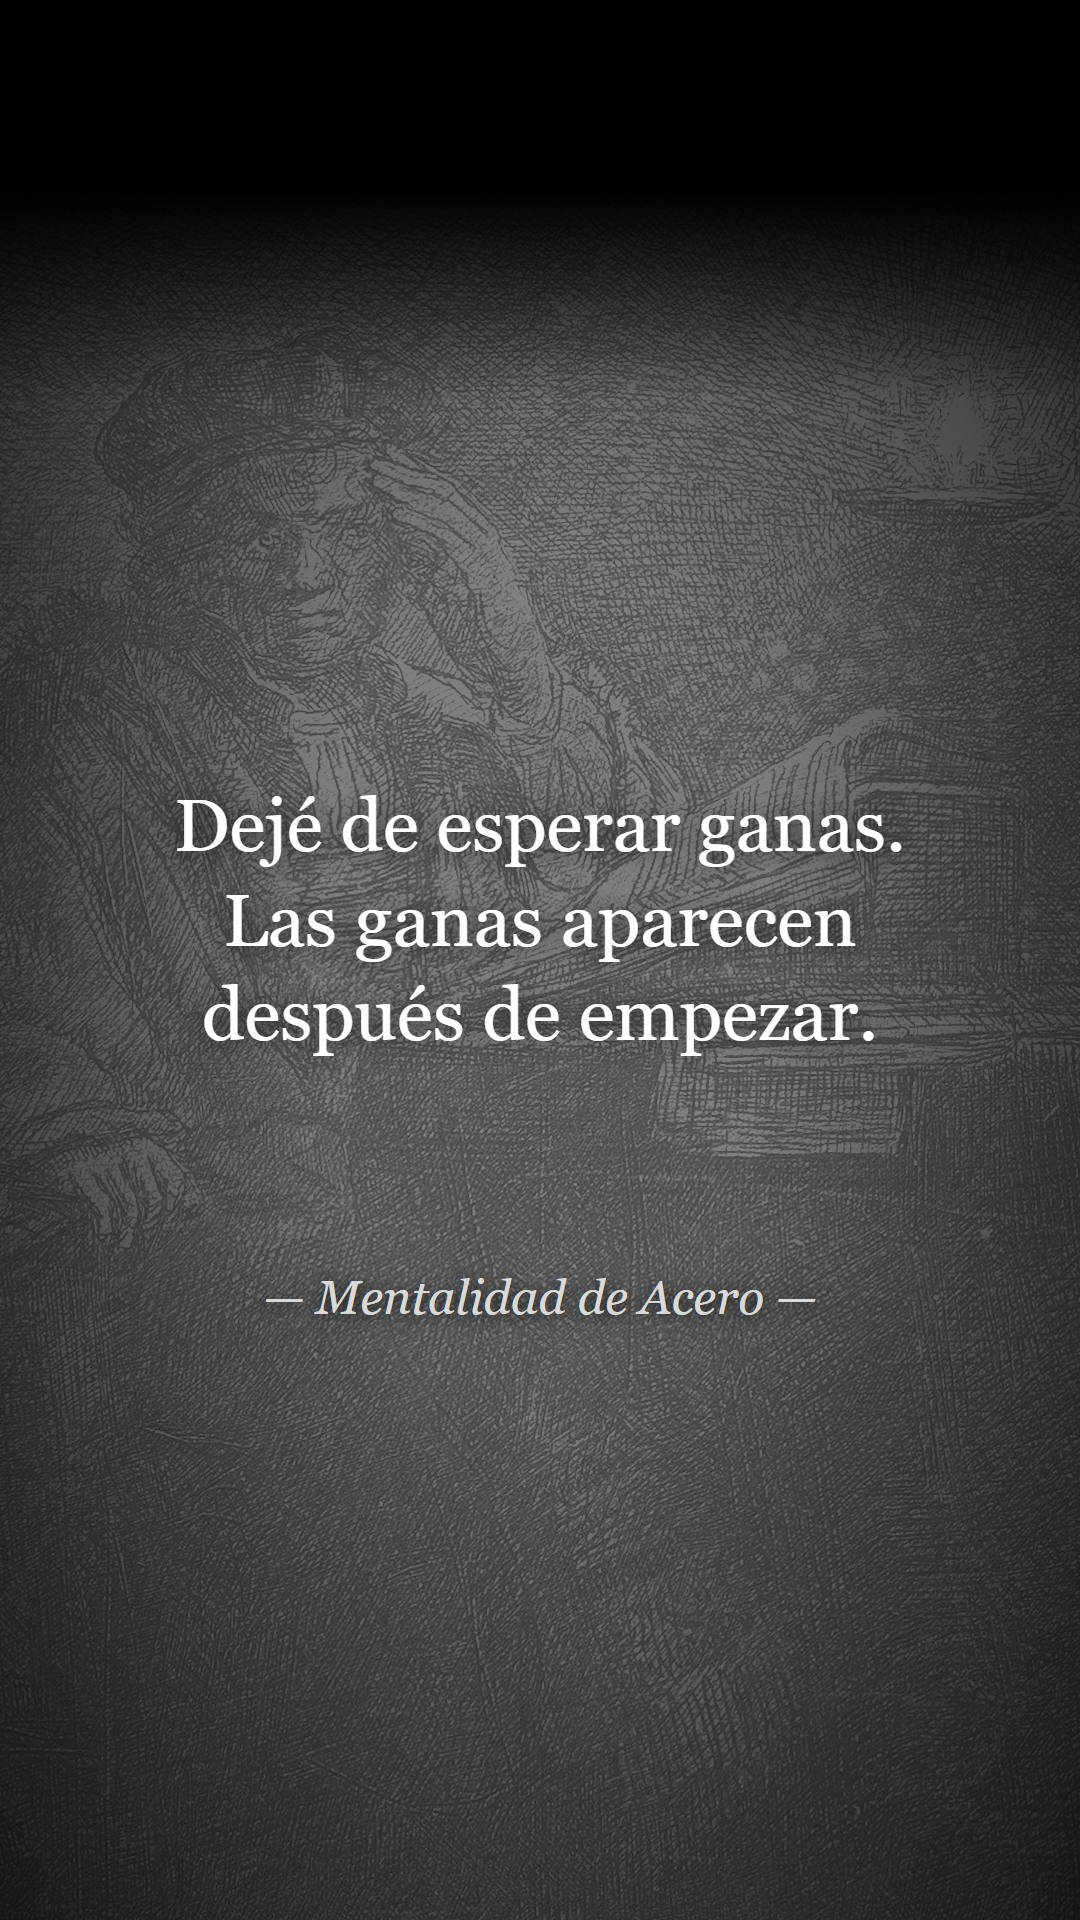
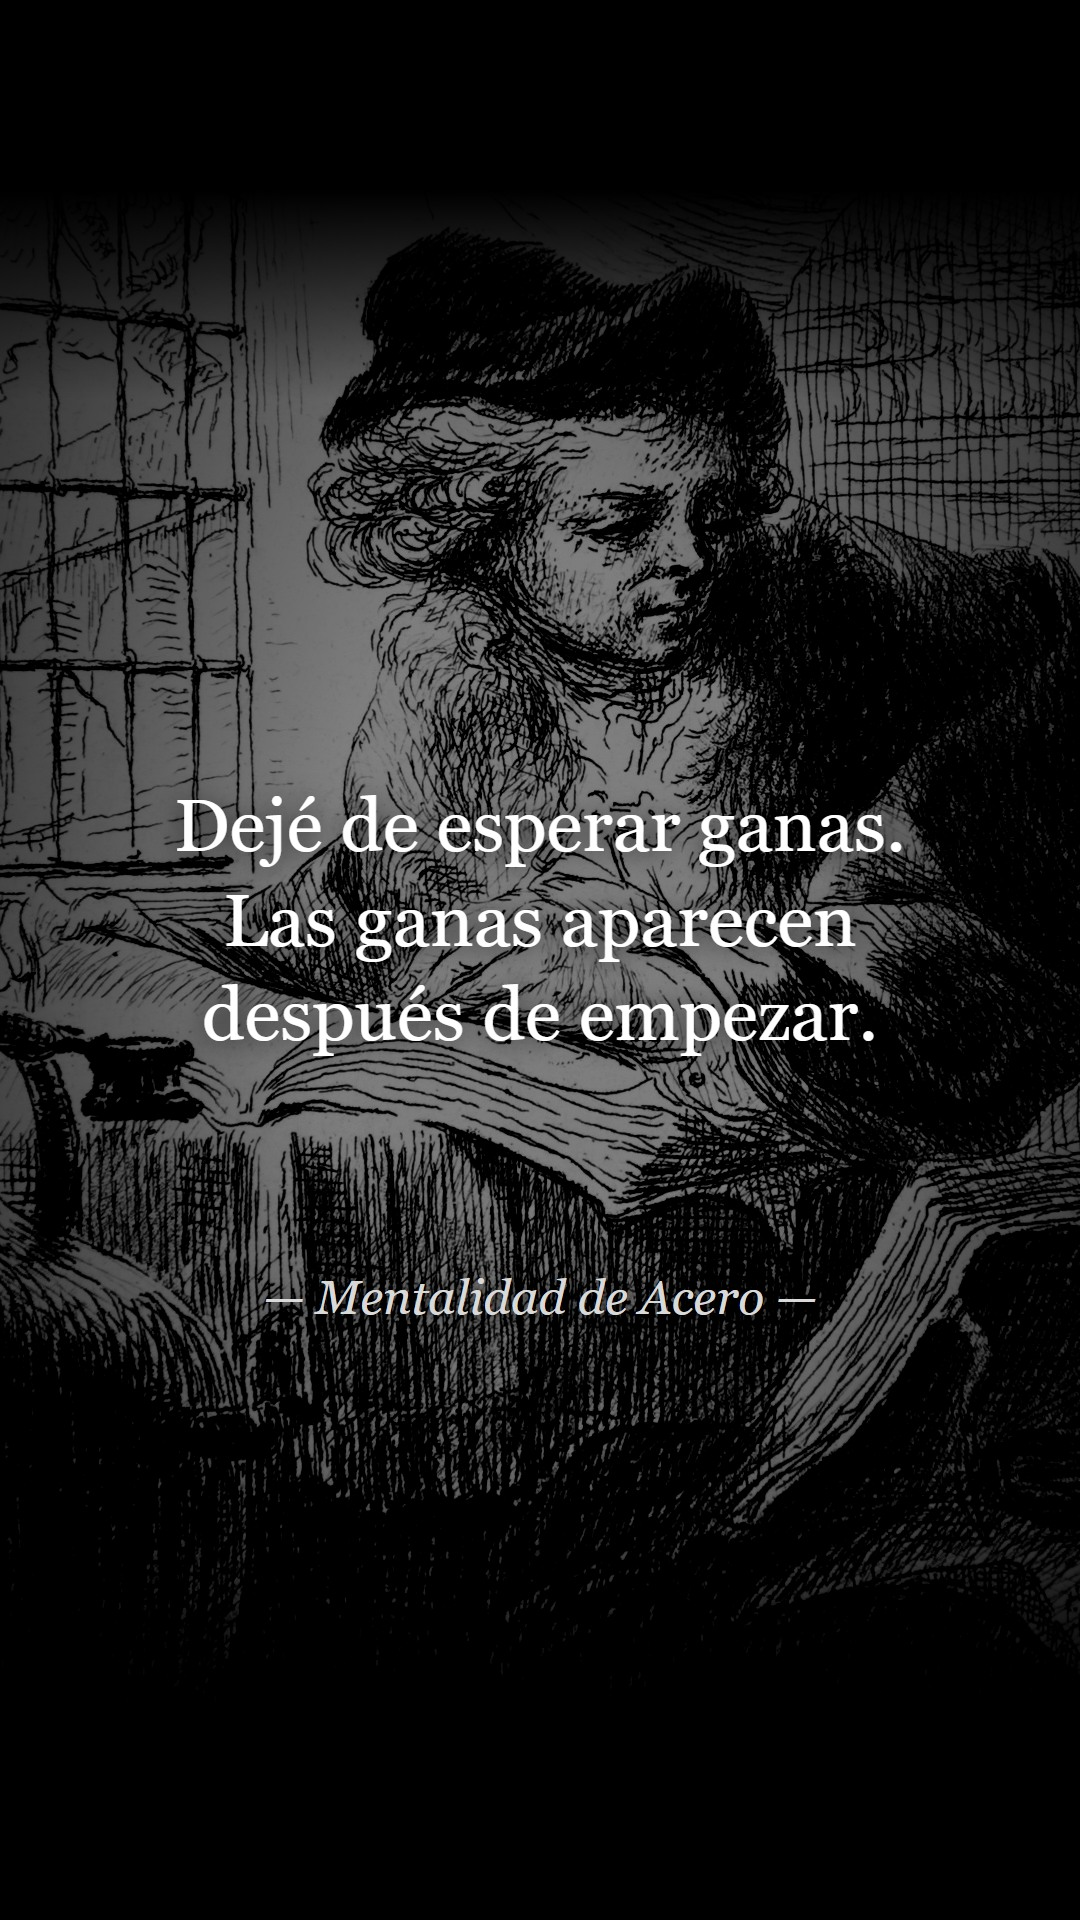
Redo ganas card 1 with high-contrast Vivant Denon etching (Met Open Access)

diff --git a/posts/2026-10-28-ganas/cards.js b/posts/2026-10-28-ganas/cards.js
@@ -1,5 +1,5 @@
 window.CARDS=[
-{q:"Dejé de esperar ganas.<br>Las ganas aparecen<br>después de empezar.",a:"Mentalidad de Acero",bg:"file:///D:/proyectos/nahuel-tiktok-legal/tools/tarjetas/fondos/ga_student.jpg"},
+{q:"Dejé de esperar ganas.<br>Las ganas aparecen<br>después de empezar.",a:"Mentalidad de Acero",bg:"file:///D:/proyectos/nahuel-tiktok-legal/tools/tarjetas/fondos/ga_writer.jpg"},
 {q:"La motivación me<br>abandonó mil veces.<br>El horario, nunca.",a:"Mentalidad de Acero",bg:"file:///D:/proyectos/nahuel-tiktok-legal/tools/tarjetas/fondos/ga_painter.jpg"},
 {q:"No soy más disciplinado<br>que vos. Solo dejé de<br>negociar conmigo.",a:"Mentalidad de Acero",bg:"file:///D:/proyectos/nahuel-tiktok-legal/tools/tarjetas/fondos/ga_jerome.jpg"},
 {q:"Primero hacelo.<br>Las ganas vienen<br>después.",cta:"Compartilo con el que espera<br>tener ganas para empezar.",a:"Mentalidad de Acero",inv:true}
